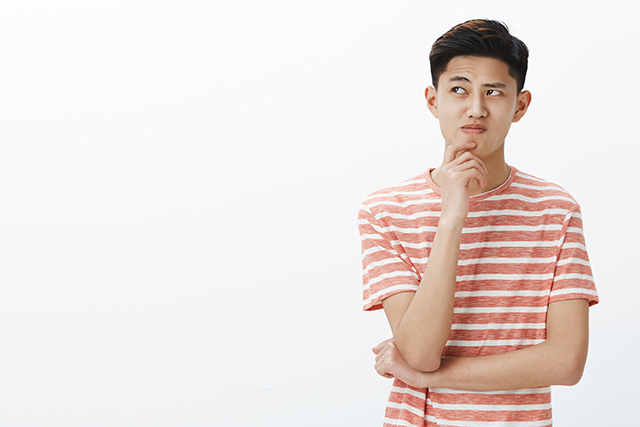
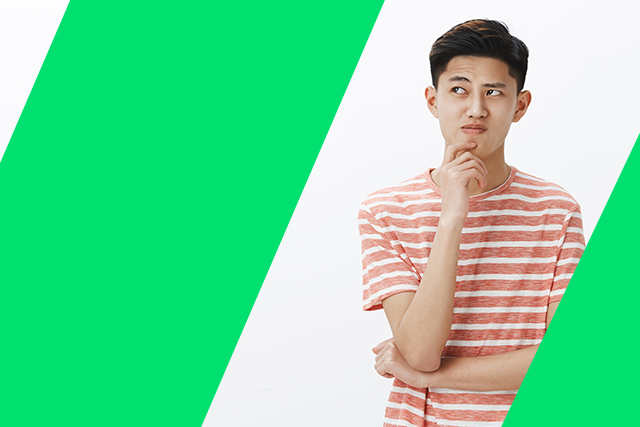
v 1.0.60

diff --git a/resources/views/web/work/ryogas-index.blade.php b/resources/views/web/work/ryogas-index.blade.php
@@ -94,7 +94,7 @@
                 </div>
             </div>
             <div class="col-md-6 d-flex align-items-stretch mt-4" data-aos="fade-up" data-aos-delay="300">
-                <div class="card" style="background-image: url({{asset('assets/images/work/ryogas/devforWhom.jpg')}});">
+                <div class="card" style="background-image: url({{asset('assets/images/work/ryogas/devWhy.jpg')}});">
                     <div class="card-body bg_color--9">
                         <h5 class="card-title">Why RyoGas</h5>
                         <p class="card-text">
